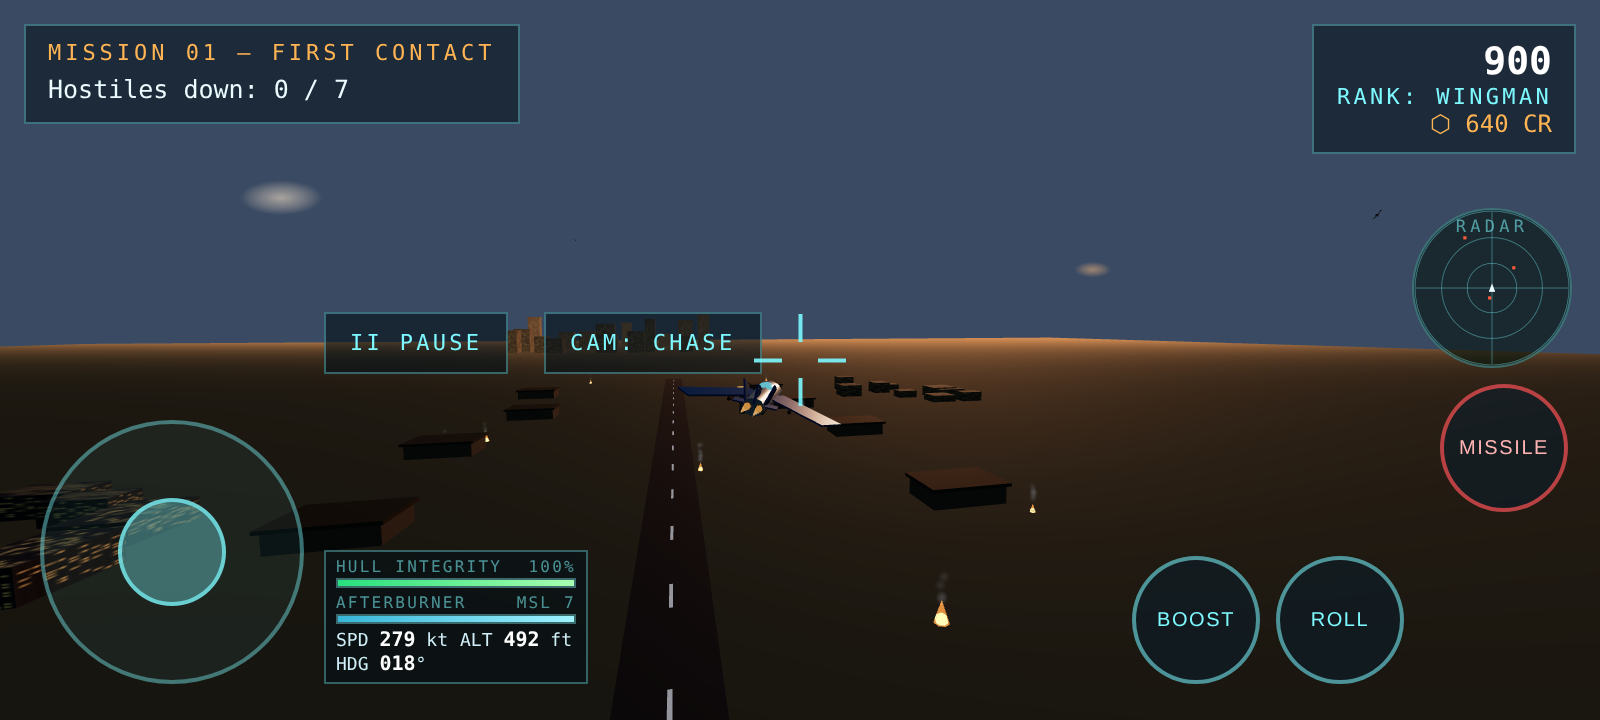
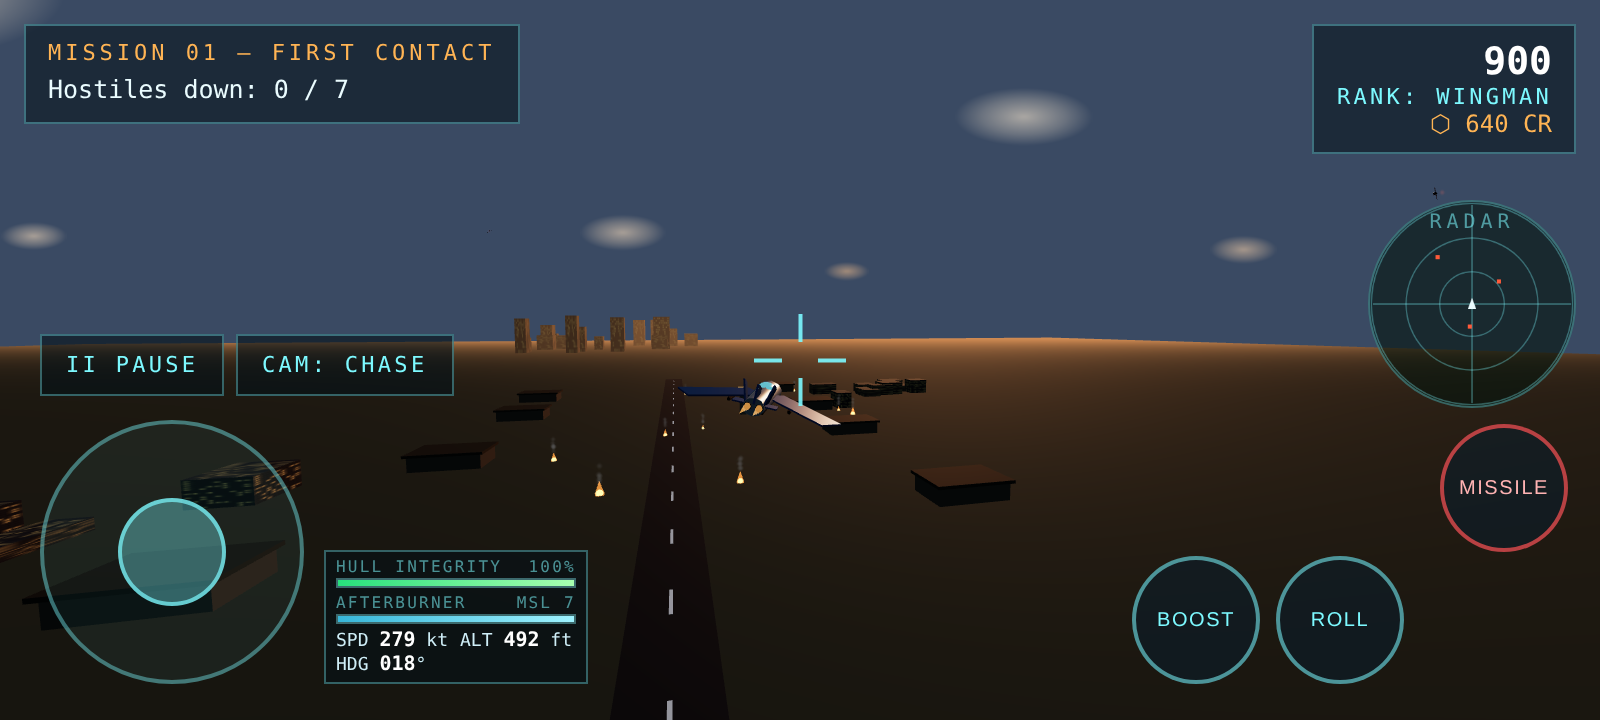
Pause/Cam back above the joystick (End Sortie joins their row so nothing collides on short screens); touch radar enlarged 80px -> 104px, missile shifted down to match

diff --git a/index.html b/index.html
@@ -192,13 +192,13 @@
   body.touch #hud-bottom-left .barlabel{font-size:8px;letter-spacing:.14em}
   body.touch #hud-gauges{gap:6px;font-size:9px;flex-wrap:wrap;row-gap:1px}
   body.touch #hud-gauges b{font-size:10px}
-  body.touch #btn-pause{top:156px;bottom:auto;left:162px}
-  body.touch #btn-camera{top:156px;bottom:auto;left:272px;right:auto}
-  body.touch #btn-end-sortie{position:absolute;top:112px !important;bottom:auto;left:14px}
-  body.touch #radar-wrap{top:104px;bottom:auto;right:14px;width:80px;height:80px}
-  body.touch #radar{width:80px;height:80px}
-  body.touch #radar-label{top:5px;right:0;left:0;text-align:center;font-size:8.5px}
-  body.touch #btn-missile{top:192px;bottom:auto;right:16px}
+  body.touch #btn-pause{top:auto;bottom:162px;left:20px}
+  body.touch #btn-camera{top:auto;bottom:162px;left:118px;right:auto}
+  body.touch #btn-end-sortie{position:absolute;top:auto !important;bottom:162px;left:236px}
+  body.touch #radar-wrap{top:100px;bottom:auto;right:12px;width:104px;height:104px}
+  body.touch #radar{width:104px;height:104px}
+  body.touch #radar-label{top:6px;right:0;left:0;text-align:center;font-size:10px}
+  body.touch #btn-missile{top:212px;bottom:auto;right:16px}
   body.touch #btn-roll{right:98px;bottom:18px}
   body.touch #btn-boost{right:170px;bottom:18px}
   body.touch #autofire-tag{display:none}
